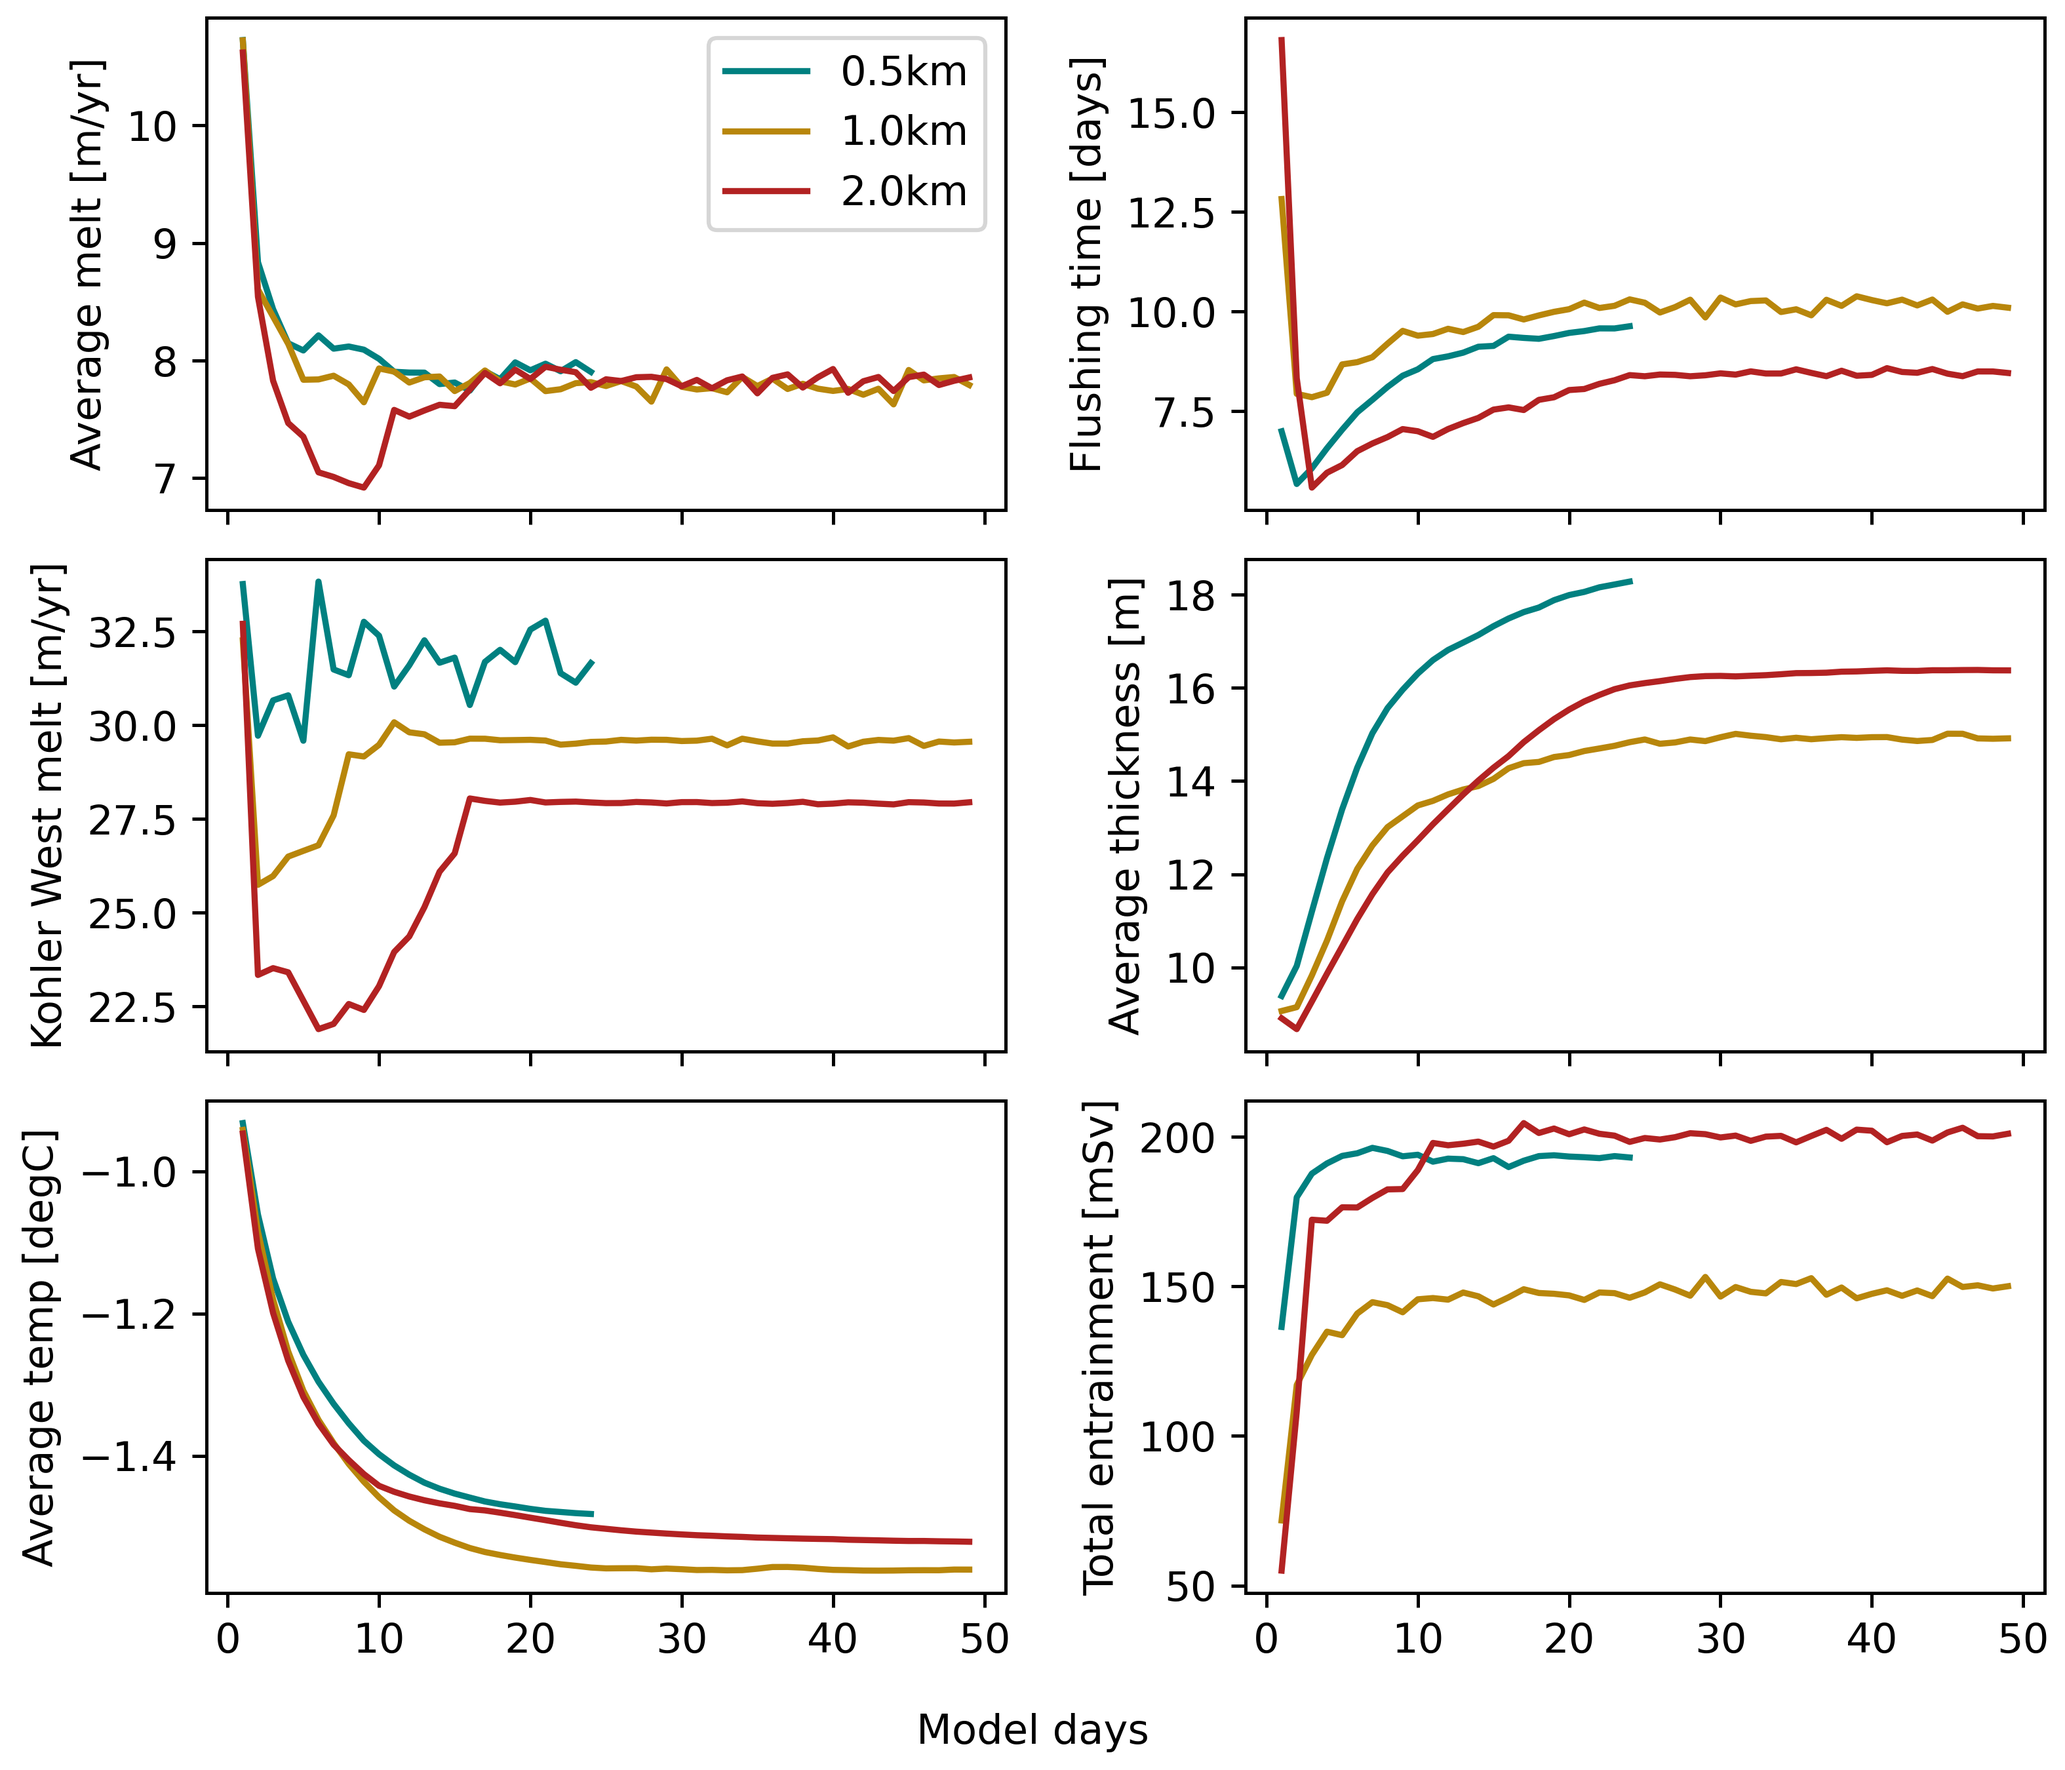
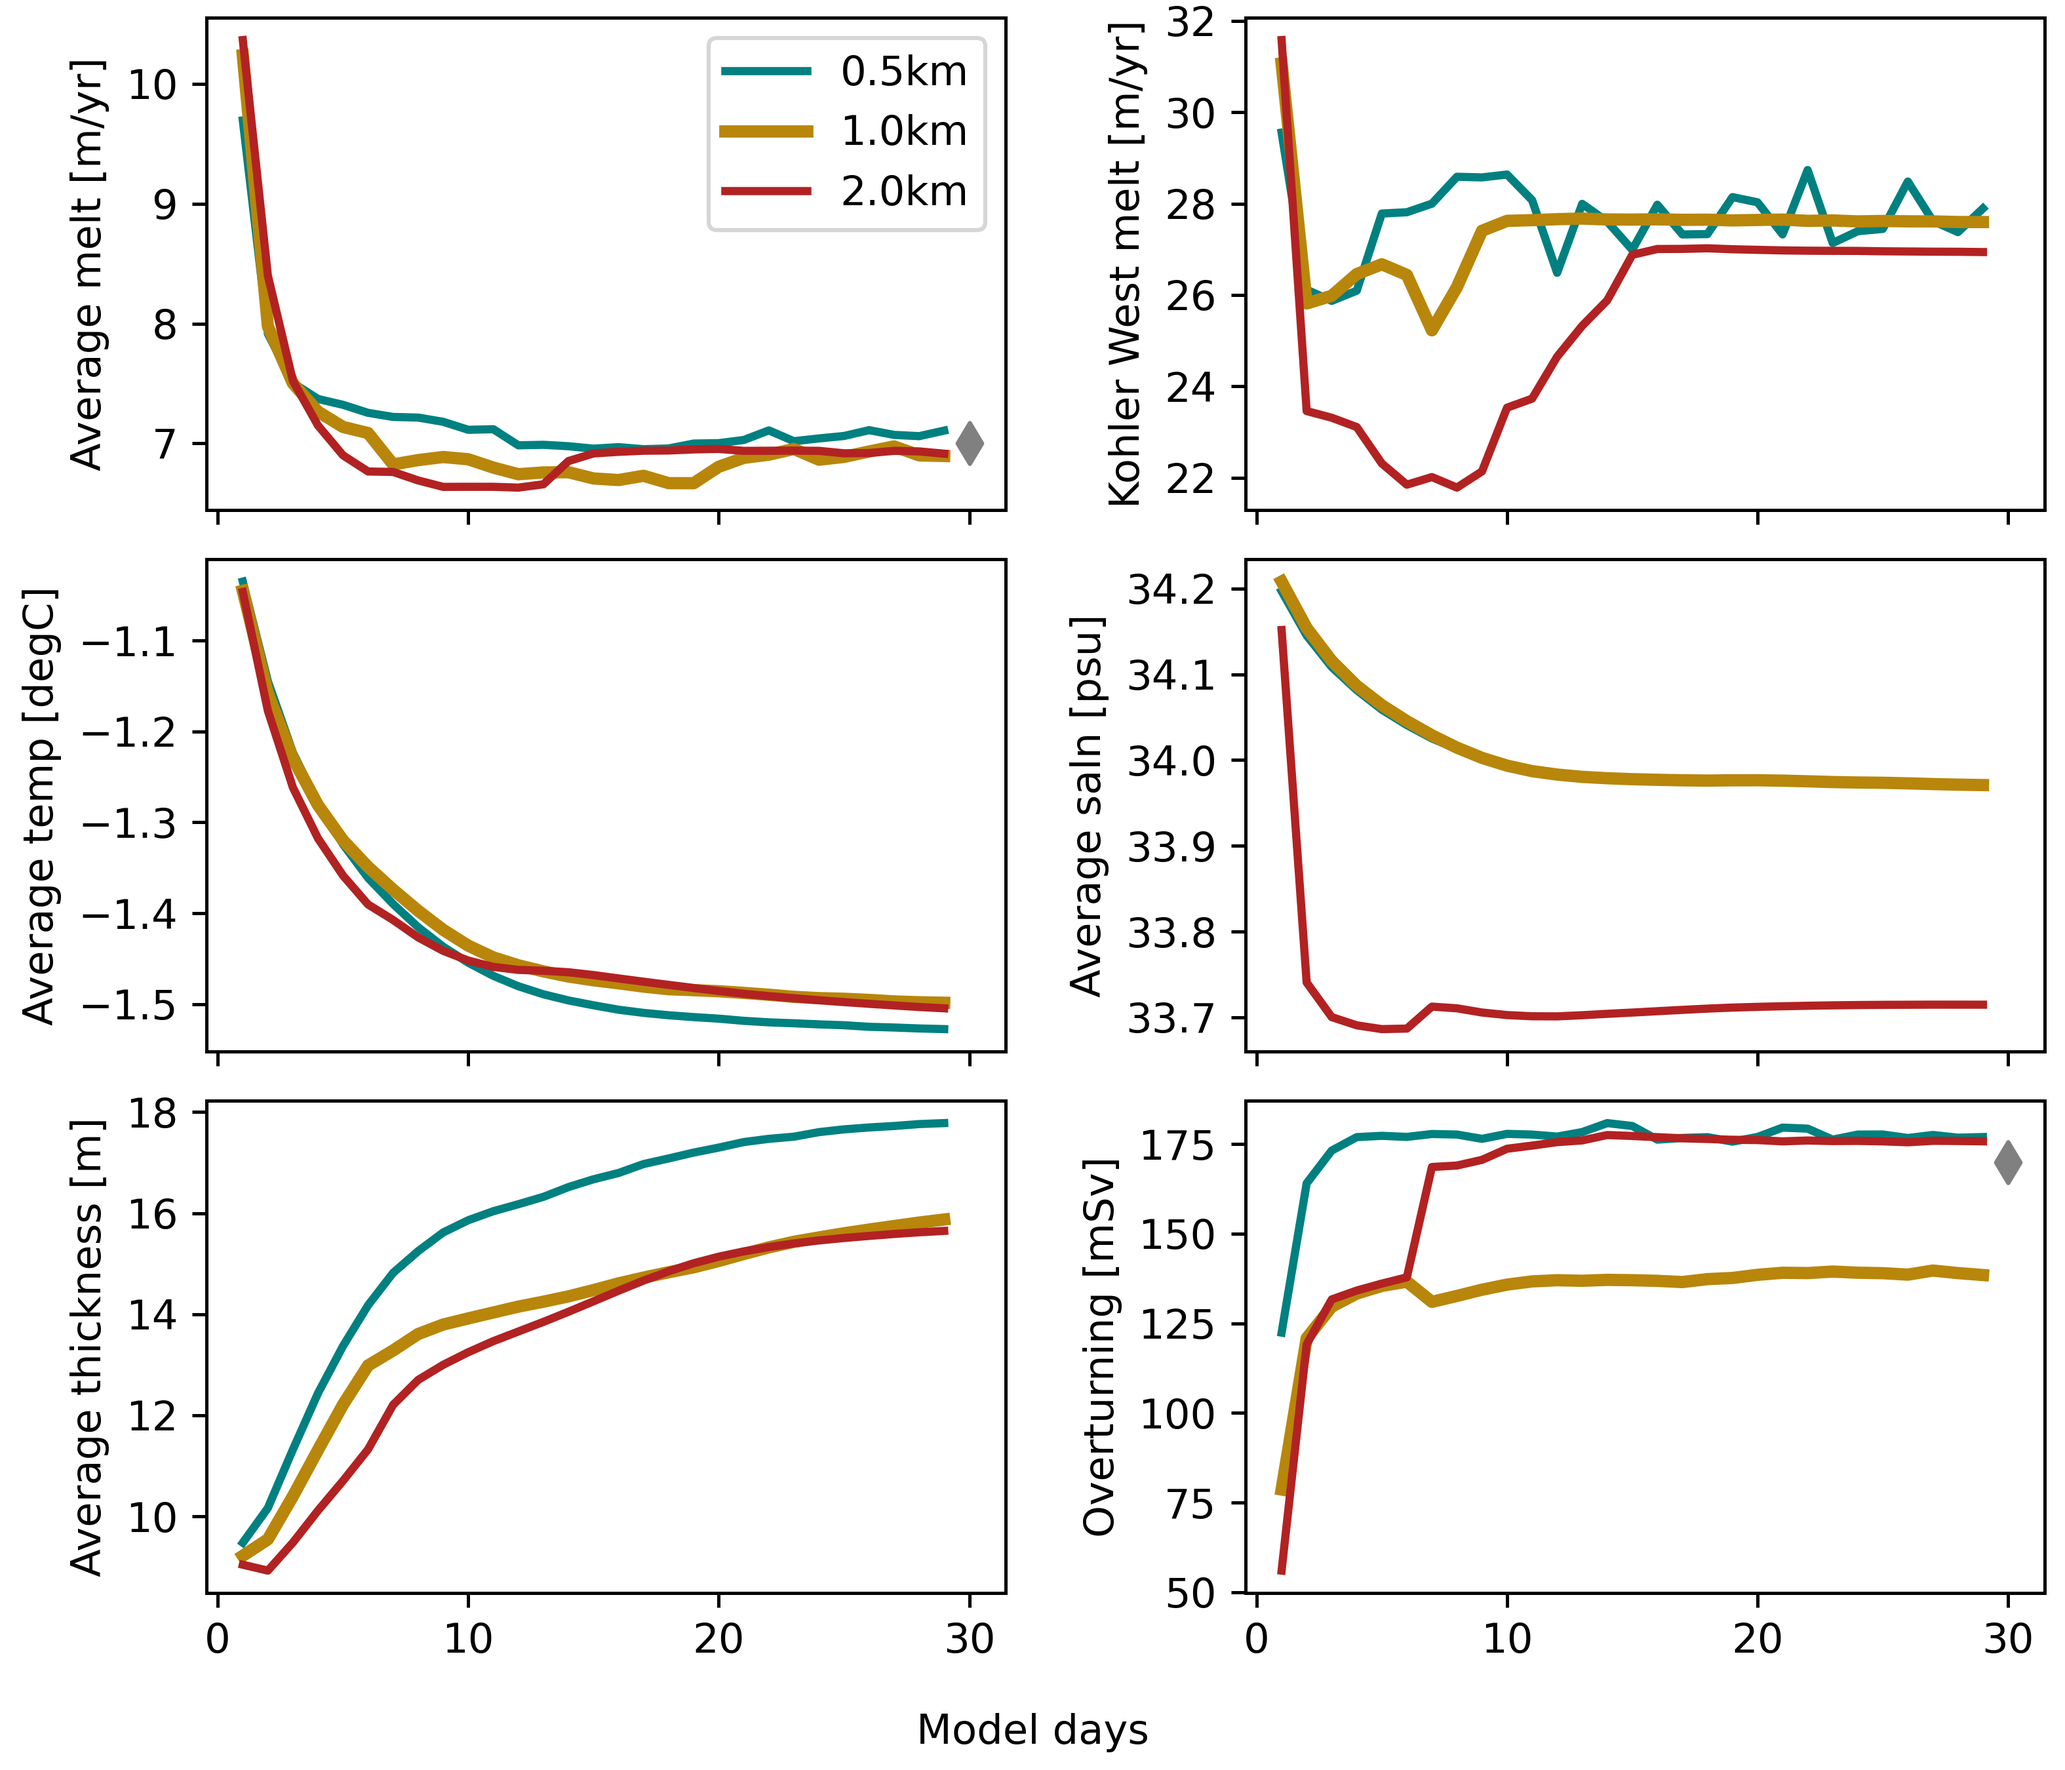
some changes in tuning and incl runlayerN.py

diff --git a/src/constants.py b/src/constants.py
@@ -3,11 +3,11 @@ class ModelConstants(object):
     def __init__(self):
         #General physical parameters
         self.g         = 9.81      # [m/s^2]     gravitational acceleration
-        self.L         = 3.35e5    # [J/kg]      Latent heat of fusion for ice
+        self.L         = 3.34e5    # [J/kg]      Latent heat of fusion for ice
         self.cp        = 3.974e3   # [J/kg/degC] specific heat capacity of ocean
         #self.spy       = 86400*365 # [s/yr]      seconds per year
-        self.alpha     =  7.5e-5   # [1/degC]    Thermal expansion coefficient
-        self.beta      =  7.7e-4   # [1/psu]     Haline contraction coefficient
+        self.alpha     =  3.733e-5   # [1/degC]    Thermal expansion coefficient
+        self.beta      =  7.843e-4   # [1/psu]     Haline contraction coefficient
         self.l1        = -5.73e-2  # [degC/psu]  freezing point salinity coefficient
         self.l2        = 8.32e-2   # [degC]      freezing point offset
         self.l3        = 7.61e-4   # [degC/m]    freezing point depth coefficient
@@ -21,13 +21,13 @@ class ModelConstants(object):
         self.Sc        = 2432.     # []          Schmidt number
         self.nu0       = 1.95e-6   # [m^2/s]     Molecular viscosity
         #self.rhofw     = 1000.     # [kg/m^3]    Density of freshwater
-        self.rho0      =  1033     # [kg/m^3]
+        self.rho0      =  1028     # [kg/m^3]    Reference density of seawater
         #self.rhoi      =   910     # [kg/m^3]
         #self.rhow      =  1028     # [kg/m^3]  
         #self.E0        = 3.6e-2    # []          entrainment coefficient        
         
         #Run parameters
-        self.nu        = .8        # []          Factor for Robert Asselin time filter
+        self.nu        = 1        # []          Factor for Robert Asselin time filter
         self.slip      = 1         # []          Factor free slip: 0, no slip: 2, partial no slip: [0..2]  
         self.dt        = 40        # [s]         Time step
         self.boundop   = 2         # []          Option for boundary conditions D,T,S. [use 1 for isomip]

diff --git a/src/forcing.py b/src/forcing.py
@@ -83,7 +83,7 @@ class Forcing(ModelConstants):
                         Sh[1:-1,j,i] = np.convolve(Sh[:,j,i],weight,'valid')
 
         #Apply nearest neighbour onto model grid
-        depth = np.arange(5000) #depth also used as index, so must be positive with steps of 1
+        depth = np.arange(0,5000,100) #depth also used as index, so must be positive with steps of 1
         Tz = np.zeros((len(depth),mask.shape[0],mask.shape[1]))
         Sz = np.zeros((len(depth),mask.shape[0],mask.shape[1]))
         for j in range(mask.shape[0]):
@@ -122,7 +122,7 @@ class Forcing(ModelConstants):
         drhodz  ..  (float)  [kg/m^4]  linear density stratification
         """
         if ztcl>0:
-            print('z-coordinate is postive upwards; ztcl was {ztcl}, now set ztcl=-{ztcl}')
+            print(f'z-coordinate is postive upwards; ztcl was {ztcl}, now set ztcl=-{ztcl}')
             ztcl = -ztcl
         S0 = 34                       # [psu]  reference surface salinity
         T0 = self.l1*S0+self.l2       # [degC] surface freezing temperature

diff --git a/src/physics.py b/src/physics.py
@@ -95,8 +95,8 @@ def updatesecondary(object):
         #print(np.where(object.tmask==1,-object.zb+object.D[1,:,:],0).min(),np.where(object.tmask==1,-object.zb+object.D[1,:,:],0).max())
         #print((-object.zb+object.D[1,:,:]).min(),(-object.zb+object.D[1,:,:]).max())
         #print(np.min(tempindex))#.min(),tempindex.max())
-        object.Ta = object.Tz[np.int_(np.minimum(4999,-object.zb+object.D[1,:,:])),object.ind[0],object.ind[1]]
-        object.Sa = object.Sz[np.int_(np.minimum(4999,-object.zb+object.D[1,:,:])),object.ind[0],object.ind[1]]
+        object.Ta = object.Tz[np.int_(.01*np.minimum(4999,-object.zb+object.D[1,:,:])),object.ind[0],object.ind[1]]
+        object.Sa = object.Sz[np.int_(.01*np.minimum(4999,-object.zb+object.D[1,:,:])),object.ind[0],object.ind[1]]
         
     object.Tf   = (object.l1*object.S[1,:,:]+object.l2+object.l3*object.zb).values
     

diff --git a/src/notebooks/runlayer3.py b/src/notebooks/runlayer3.py
@@ -1,0 +1,32 @@
+import sys
+sys.path.append('../')
+
+import numpy as np
+import matplotlib.pyplot as plt
+from geometry import Geometry
+from forcing import Forcing
+from layer import LayerModel
+
+from plotfunctions import prettyplot
+
+import warnings
+warnings.filterwarnings('ignore')
+np.seterr(all='ignore')
+
+N = 4
+years = np.arange(1986,1991)
+
+geom = Geometry('CrossDots')
+geom.coarsen(N=N)
+geom = geom.create()
+
+for yy in years:
+    forc = Forcing(geom).mitgcm(startyear=yy,endyear=yy)
+    layer = LayerModel(forc)
+    layer.dt = 70
+    layer.Ah = 60
+    layer.Kh = 10
+    layer.Cdtop = .000675
+    layer.saveday = 5
+    layer.restday = 100
+    ds = layer.compute(days=20)

diff --git a/src/notebooks/runlayer2.py b/src/notebooks/runlayer2.py
@@ -1,0 +1,32 @@
+import sys
+sys.path.append('../')
+
+import numpy as np
+import matplotlib.pyplot as plt
+from geometry import Geometry
+from forcing import Forcing
+from layer import LayerModel
+
+from plotfunctions import prettyplot
+
+import warnings
+warnings.filterwarnings('ignore')
+np.seterr(all='ignore')
+
+N = 2
+years = np.arange(1966,1991)
+
+geom = Geometry('CrossDots')
+geom.coarsen(N=N)
+geom = geom.create()
+
+for yy in years:
+    forc = Forcing(geom).mitgcm(startyear=yy,endyear=yy)
+    layer = LayerModel(forc)
+    layer.dt = 40
+    layer.Ah = 24
+    layer.Kh = 4
+    layer.Cdtop = .000625
+    layer.saveday = 5
+    layer.restday = 100
+    ds = layer.compute(days=20)

diff --git a/src/notebooks/runlayer1.py b/src/notebooks/runlayer1.py
@@ -1,0 +1,32 @@
+import sys
+sys.path.append('../')
+
+import numpy as np
+import matplotlib.pyplot as plt
+from geometry import Geometry
+from forcing import Forcing
+from layer import LayerModel
+
+from plotfunctions import prettyplot
+
+import warnings
+warnings.filterwarnings('ignore')
+np.seterr(all='ignore')
+
+N = 1
+years = [1973,1986]
+
+geom = Geometry('CrossDots')
+geom.coarsen(N=N)
+geom = geom.create()
+
+for yy in years:
+    forc = Forcing(geom).mitgcm(startyear=yy,endyear=yy)
+    layer = LayerModel(forc)
+    layer.dt = 20
+    layer.Ah = 6
+    layer.Kh = 1
+    layer.Cdtop = .000525
+    layer.saveday = 5
+    layer.restday = 100
+    ds = layer.compute(days=15)

diff --git a/src/preprocess.py b/src/preprocess.py
@@ -104,8 +104,8 @@ def initialize_vars(object):
             object.Ta   = np.interp(object.zb,object.z,object.Tz)
             object.Sa   = np.interp(object.zb,object.z,object.Sz)
         elif len(object.Tz.shape)==3:
-            object.Ta = object.Tz[np.int_(-object.zb),object.ind[0],object.ind[1]]
-            object.Sa = object.Sz[np.int_(-object.zb),object.ind[0],object.ind[1]]
+            object.Ta = object.Tz[np.int_(.01*-object.zb),object.ind[0],object.ind[1]]
+            object.Sa = object.Sz[np.int_(.01*-object.zb),object.ind[0],object.ind[1]]
             
         #object.Tf   = (object.l1*object.Sa+object.l2+object.l3*object.zb).values
         
